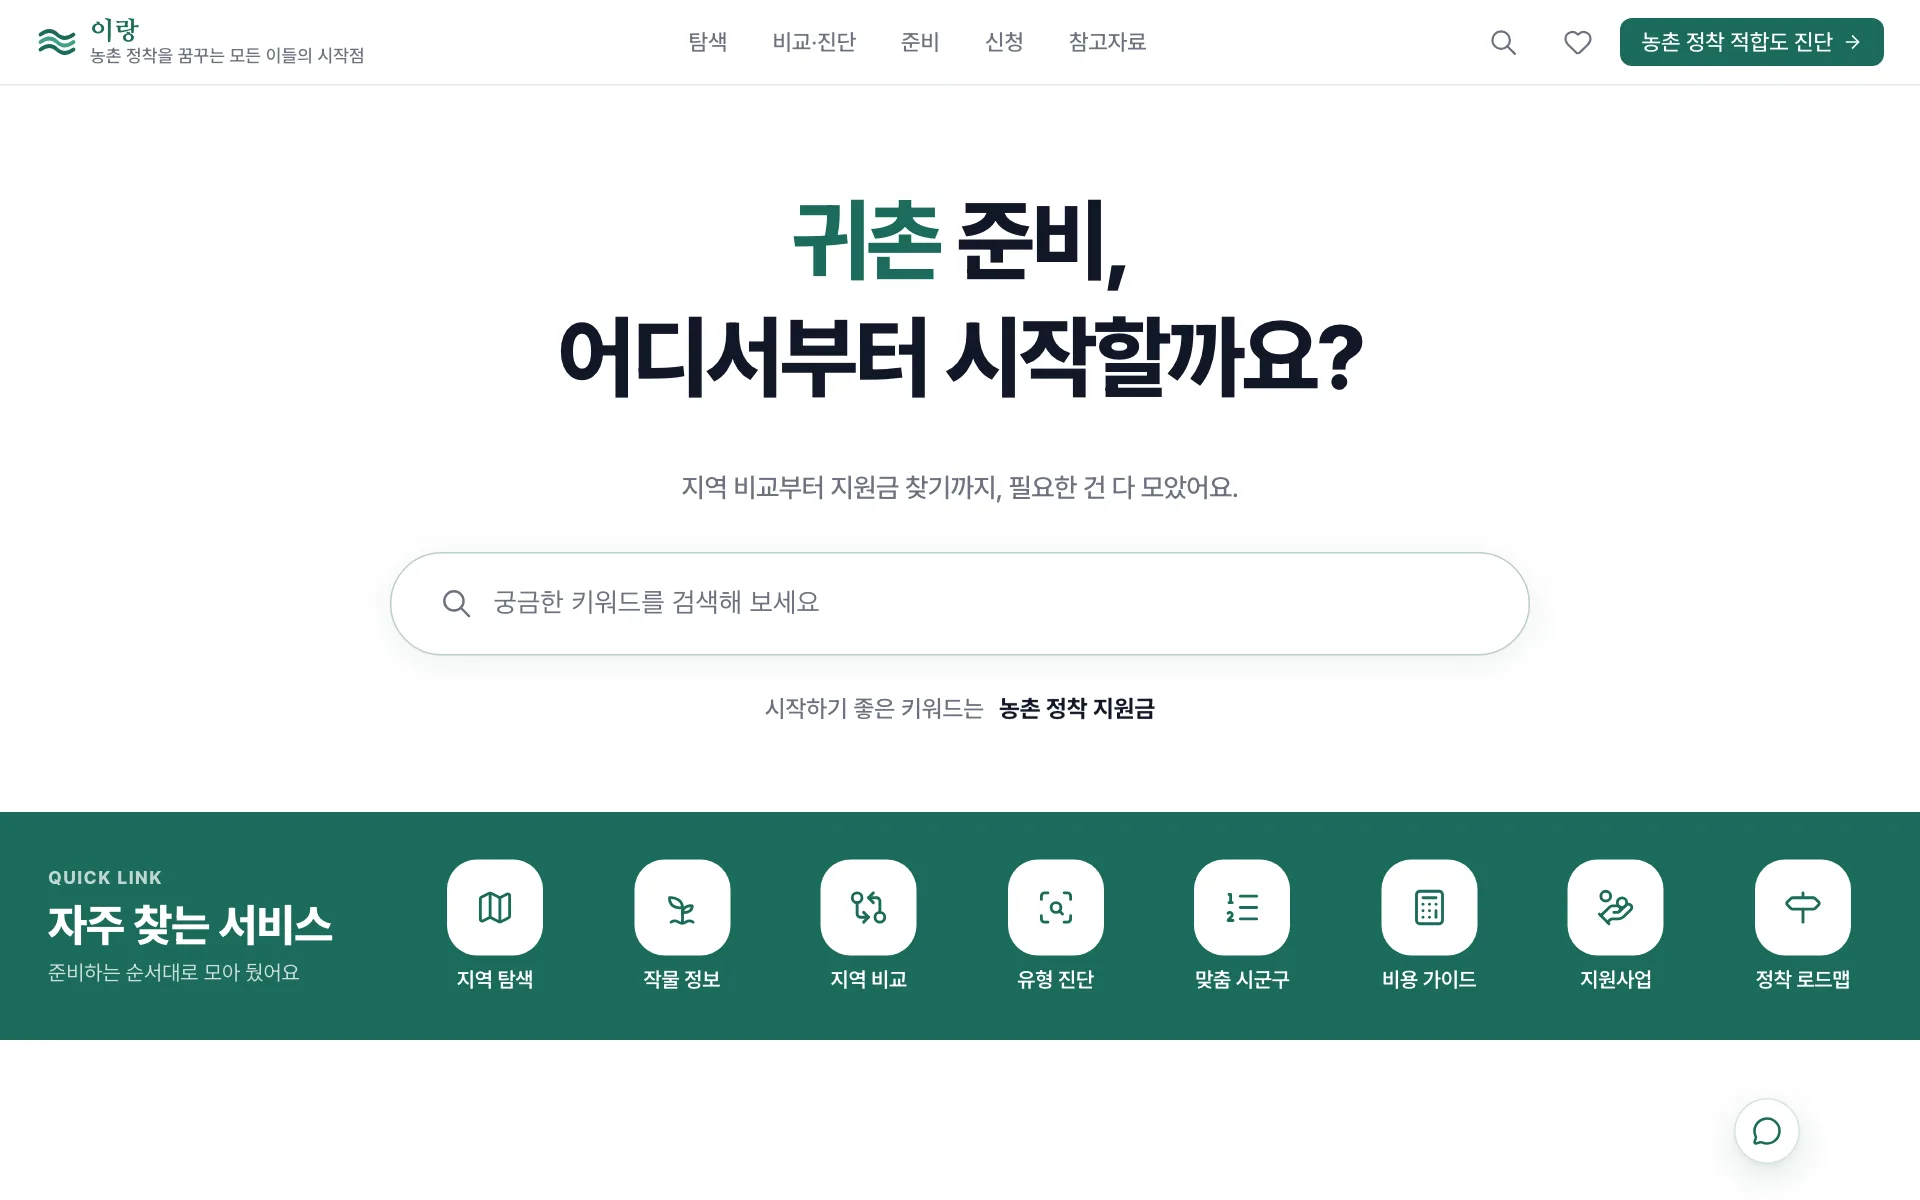
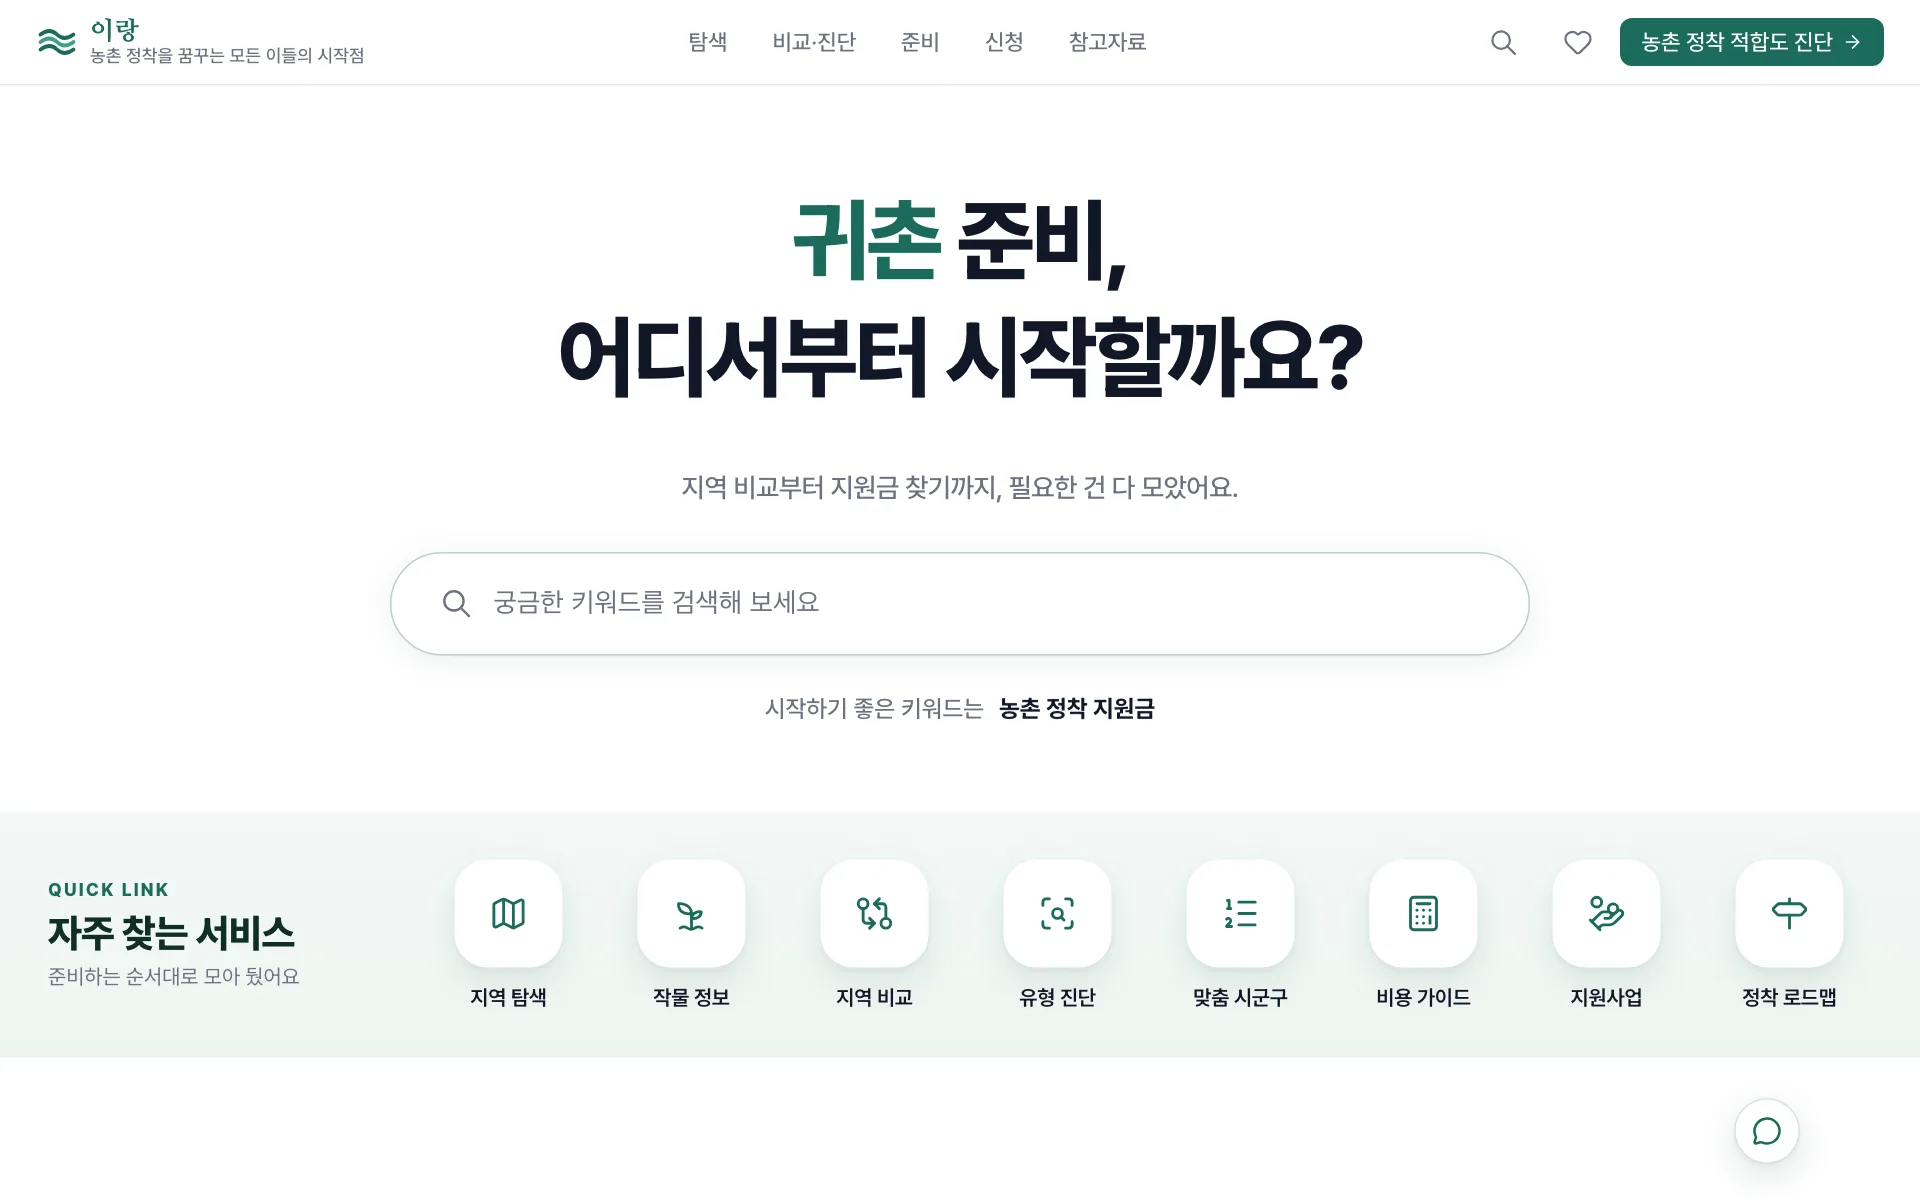
style(landing): 자주 찾는 서비스 — 공공포털 문법(B2): 연그린 그라데이션 띠 + 흰 둥근 타일 64/72 + 그림자
회장 9/7: 토스·당근 계열 시안 보류, 공공기관(복지로·고용24·태안·그린대로 등 8곳) 패턴 조사 → B2 결재.
primary 원색 띠 폐기 → #f3f8f6→#eef5f1, 타일 흰 둥근사각(모바일·1024 64px, 1280+ 72px) + 그림자, 라벨 14px,
데스크탑 좌 제목(26px 딥그린)·우 8개 110px, 모바일 제목 가운데·4×2 행 간격 18.
6폭 실측: 타일 1종, 라벨 1줄, 잘림 0, 제목·묶음·띠 중심 일치. 업데이트 소식 이후 프레임 갱신.

Changed region(s): [[0.0, 0.6783, 1.0, 0.8942]]

diff --git a/src/components/landing/quick-link-section.module.css b/src/components/landing/quick-link-section.module.css
@@ -6,9 +6,10 @@
   display: flex;
   flex-direction: column;
   margin: -44px calc(-50vw + 50%) 0; /* 위 -44: .page gap 64 → 히어로와 20 (흰 여백 최소화) */
-  padding: 26px calc(50vw - 50%) 24px;
-  background: var(--primary, #1b6b5a);
-  color: #fff;
+  padding: 30px calc(50vw - 50%) 30px;
+  /* 공공포털 문법(복지로·태안·고용24): 연한 바탕 띠 + 흰 타일. primary 원색 띠는 9/7 회장 "못생김" 판정으로 폐기 */
+  background: linear-gradient(180deg, #f3f8f6 0%, #eef5f1 100%);
+  color: var(--foreground, #111827);
   min-width: 0;
 }
 
@@ -32,15 +33,17 @@
 .intro {
   display: flex;
   flex-direction: column;
+  align-items: center; /* 모바일: 제목 블록 가운데 (태안·고용24 모바일 패턴) */
   gap: 4px;
+  text-align: center;
 }
 
 .eyebrow {
   margin: 0;
   font-size: var(--fs-overline, 0.6875rem);
   font-weight: 800;
-  letter-spacing: 0.08em;
-  color: rgba(255, 255, 255, 0.72);
+  letter-spacing: 0.12em;
+  color: var(--primary, #1b6b5a);
 }
 
 .title {
@@ -48,20 +51,20 @@
   font-size: var(--fs-h3, 1.25rem);
   font-weight: 800;
   letter-spacing: -0.02em;
-  color: #fff;
+  color: var(--primary-dark, #0d2e27);
 }
 
 .desc {
   margin: 0;
   font-size: var(--fs-caption, 0.8125rem);
-  color: rgba(255, 255, 255, 0.78);
+  color: var(--muted-foreground, #6b7280);
 }
 
 /* 모바일: 4개 × 2줄 그리드 — 한 화면에 8개 전부 (9/7 회장 지시) */
 .track {
   display: grid;
   grid-template-columns: repeat(4, minmax(0, 1fr));
-  gap: 6px 4px; /* 행 간격 6 (9/7 회장: 아이콘끼리 상하 간격 축소) */
+  gap: 18px 8px; /* 4×2 그리드 (태안 모바일 패턴) */
   margin: 0;
   padding: 2px 0 0;
   list-style: none;
@@ -75,18 +78,18 @@
   display: flex;
   flex-direction: column;
   align-items: center;
-  gap: 8px;
+  gap: 12px;
   width: 100%;
   min-height: 44px;
   padding: 4px 2px;
   border-radius: 14px;
-  color: #fff;
+  color: var(--foreground, #111827);
   text-decoration: none;
   -webkit-tap-highlight-color: transparent;
 }
 
 .link:focus-visible {
-  outline: 2px solid #fff;
+  outline: 2px solid var(--primary, #1b6b5a);
   outline-offset: 2px;
 }
 
@@ -95,20 +98,24 @@
   flex: 0 0 auto; /* 라벨이 길어져도 타일은 절대 줄지 않는다 (9/7 회장: 타일 크기 통일) */
   align-items: center;
   justify-content: center;
-  width: 60px;
-  height: 60px;
-  border-radius: 18px;
+  width: 64px;
+  height: 64px;
+  border-radius: 20px;
   background: #fff;
   color: var(--primary, #1b6b5a);
+  box-shadow:
+    0 2px 4px rgba(27, 107, 90, 0.06),
+    0 10px 24px rgba(27, 107, 90, 0.1);
   transition:
     background 0.18s ease,
     color 0.18s ease,
-    transform 0.18s ease;
+    transform 0.18s ease,
+    box-shadow 0.18s ease;
 }
 
 .label {
   white-space: nowrap; /* 라벨은 항상 한 줄 — 긴 이름은 짧은 표기(예: "맞춤 시군구")로 */
-  font-size: var(--fs-caption, 0.8125rem);
+  font-size: 0.875rem;
   font-weight: 600;
   line-height: 1.25;
   text-align: center;
@@ -117,9 +124,10 @@
 
 @media (hover: hover) {
   .link:hover .tile {
-    background: var(--primary-dark, #0d2e27);
+    background: var(--primary, #1b6b5a);
     color: #fff;
-    transform: translateY(-2px);
+    transform: translateY(-3px);
+    box-shadow: 0 14px 28px rgba(27, 107, 90, 0.22);
   }
 }
 
@@ -131,8 +139,8 @@
 
 @media (min-width: 640px) {
   .section {
-    padding-top: 30px;
-    padding-bottom: 28px;
+    padding-top: 34px;
+    padding-bottom: 34px;
   }
 }
 
@@ -181,18 +189,18 @@
   /* 링크 박스를 "타일 64 + 8 + 라벨 1줄 18 = 90px"로 고정 — 8개가 같은 박스라 띠 정중앙에 정확히 놓이고,
      2줄 라벨("맞춤 시군구 찾기")의 둘째 줄만 박스 밖 아래 여백(30px)으로 흘러내린다(9/7 회장 "중앙 안 맞음" 2차) */
   .link {
-    height: 90px;
     padding-top: 0;
     padding-bottom: 0;
-    overflow: visible;
   }
 
   .intro {
-    gap: 6px; /* 제목 블록은 띠(행 90px) 중심에 — 타일 중심이 아니라 띠 기준 (9/7 회장 3차) */
+    align-items: flex-start;
+    gap: 6px; /* 제목 블록은 띠 행 중심에 (9/7 회장 3차) */
+    text-align: left;
   }
 
   .title {
-    font-size: var(--fs-h2, 1.5rem);
+    font-size: 1.625rem;
   }
 
   .track {
@@ -211,8 +219,8 @@
   .tile {
     width: 64px;
     height: 64px;
-    border-radius: 20px;
   }
+
 }
 
 @media (min-width: 1280px) {
@@ -221,10 +229,16 @@
   }
 
   .item {
-    width: 92px;
+    width: 110px;
+  }
+
+  .tile {
+    width: 72px;
+    height: 72px;
+    border-radius: 22px;
   }
 
   .label {
-    font-size: var(--fs-caption, 0.8125rem);
+    font-size: 0.875rem;
   }
 }

diff --git a/src/lib/data/updates.ts b/src/lib/data/updates.ts
@@ -100,7 +100,7 @@ export const UPDATES: UpdateItem[] = [
       before: "/updates/quick-link-before.webp",
       after: "/updates/quick-link-after.webp",
       frame: "desktop",
-      caption: "이전엔 검색창 아래로 키워드 띠가 흘렀고, 지금은 초록 띠 '자주 찾는 서비스'에 아이콘 여덟 개가 한 줄로 보여요",
+      caption: "이전엔 검색창 아래로 키워드 띠가 흘렀고, 지금은 '자주 찾는 서비스'에 아이콘 여덟 개가 한 줄로 보여요",
     },
   },
   {

diff --git a/CLAUDE.md b/CLAUDE.md
@@ -108,6 +108,7 @@
 | 2026-09-07 | **자주 찾는 서비스 띠 간격 3건(회장 모바일·데스크탑 확인)** — ① 모바일: 설명→그리드 6→28px(`.inner` 세로 스택 gap 22 — 섹션 gap이 `.inner` 래퍼 도입 후 무효였음), 아이콘 행 사이 26→14px(라벨 2줄 예약을 데스크탑 전용으로, 행 gap 6) ② 데스크탑: 라벨 2줄 예약(36px) 때문에 타일 중심이 링크 블록 중심보다 위 → `.intro { padding-bottom: 44px }`로 제목 블록 중심 = 타일 중심(실측 702 vs 701) ③ 히어로↔띠 흰 여백 56/40 → 24/20 | src/components/landing/quick-link-section.module.css | **래퍼를 새로 끼우면 부모의 gap/grid 규칙이 끊긴다** — `.inner` 도입 후 `.section { gap }`가 죽은 채 실측 표만 보고 넘어갔음. 실측 항목에 "설명→그리드"·"행 사이"·"타일 중심 vs 제목 중심"을 추가해 잡음 |
 | 2026-09-07 | **띠 데스크탑 세로 중앙 2차 수정** — 1차(제목 중심=타일 중심)는 맞았지만 **아이콘 묶음 전체가 띠 안에서 위로 치우침**(위 39 / 한 줄 라벨 아래 55px): 2줄 라벨 예약(36px)이 모든 링크 박스를 키워 띠가 그 박스를 중앙에 놓은 결과. 예약 제거, 데스크탑 `.link { height: 90px }`(타일 64+8+라벨 18) 고정 + `overflow: visible`로 둘째 줄만 아래 여백으로 흘림, `.intro { padding-bottom: 26px }`. 실측 위 38 / 아래 37, 타일 중심=제목 중심, 8개 타일 상단 동일 | src/components/landing/quick-link-section.module.css | "중앙"은 **회장이 보는 묶음(타일+라벨)의 중심**이지 레이아웃 박스의 중심이 아니다 — 예약 공간이 있으면 박스 중심과 시각 중심이 갈라진다. 실측에 `blockCenter vs bandCenter`·`bottomPad(1줄 기준)` 추가 |
 | 2026-09-07 | **띠 3·4차: 제목은 띠 중심, 타일 크기 통일** — ③ 제목 블록 보정 여백(26px) 제거 → 그리드 `align-items:center`로 띠 중심(715/715/715) ④ 회장 스크린샷: "맞춤 시군구 찾기" 타일만 작음 — 고정 높이 링크 박스 안에서 2줄 라벨이 타일을 flex-shrink로 눌렀음. 타일 `flex: 0 0 auto`, 라벨 `white-space: nowrap`, 타일 라벨을 짧은 표기 **"맞춤 시군구"**(정식 명칭 "맞춤 시군구 찾기"는 GNB·페이지 유지), 1024~1279 라벨 12px·item 76·gap 0. 6폭 실측 tileSizes 1종·라벨 1줄·clipped 0 | src/components/landing/quick-link-section.* | 고정 높이 flex 컬럼에서 자식이 커지면 **다른 자식이 줄어든다** — 절대 크기 요소엔 `flex-shrink: 0`. 실측에 `tileSizes`(Set 크기 1)·`labelLines`·`clippedLabels` 추가 |
+| 2026-09-07 | **자주 찾는 서비스 = 공공포털 문법으로 재정의(B2)** — 회장 "너무 못생겼다, Pinterest·gdweb 참고" → 토스·당근 계열 시안 3종(A 그라데이션 히어로+pill / B 소프트 카드 / C 분할 히어로+일러스트) 제시 → 회장 "당근·토스 말고 **공공기관** 봐라, 추천안 보류" → 복지로·고용24·태안·그린대로·홈택스·서울·경기·농사로 8곳 Playwright 캡처 → 보드 2장 + 패턴 4종(검색이 주인공 / 자주 찾는 서비스는 검색 바로 아래 **연한 바탕 띠** / 흰 원·둥근사각 타일 64~90px + 컬러 아이콘 + 그림자 / 모바일 4×2 제목 가운데) → 이랑 톤 시안 B2 → 결재. 구현: primary 원색 띠 폐기 → `linear-gradient(#f3f8f6, #eef5f1)`, 타일 64(모바일·1024)/72(1280+) 흰 둥근사각 + 그림자, 라벨 14px, 데스크탑 좌 제목 블록(26px 딥그린)·우 8개 110px, 모바일 제목 가운데·행 간격 18. 6폭 실측 타일 1종·라벨 1줄·중심 일치 | src/components/landing/quick-link-section.module.css, scratchpad refs/*(캡처) | **레퍼런스는 회장의 준거 집단으로** — 같은 "퀵링크"라도 토스 문법과 공공 문법은 결이 다르고, 이랑의 준거는 공공 포털. 취향 판단은 실제 사이트 캡처 보드 + 우리 DOM에 CSS만 입힌 시안을 **같이** 보내면 한 라운드에 끝난다. 정부24는 헤드리스 차단 |
 
 ---
 
